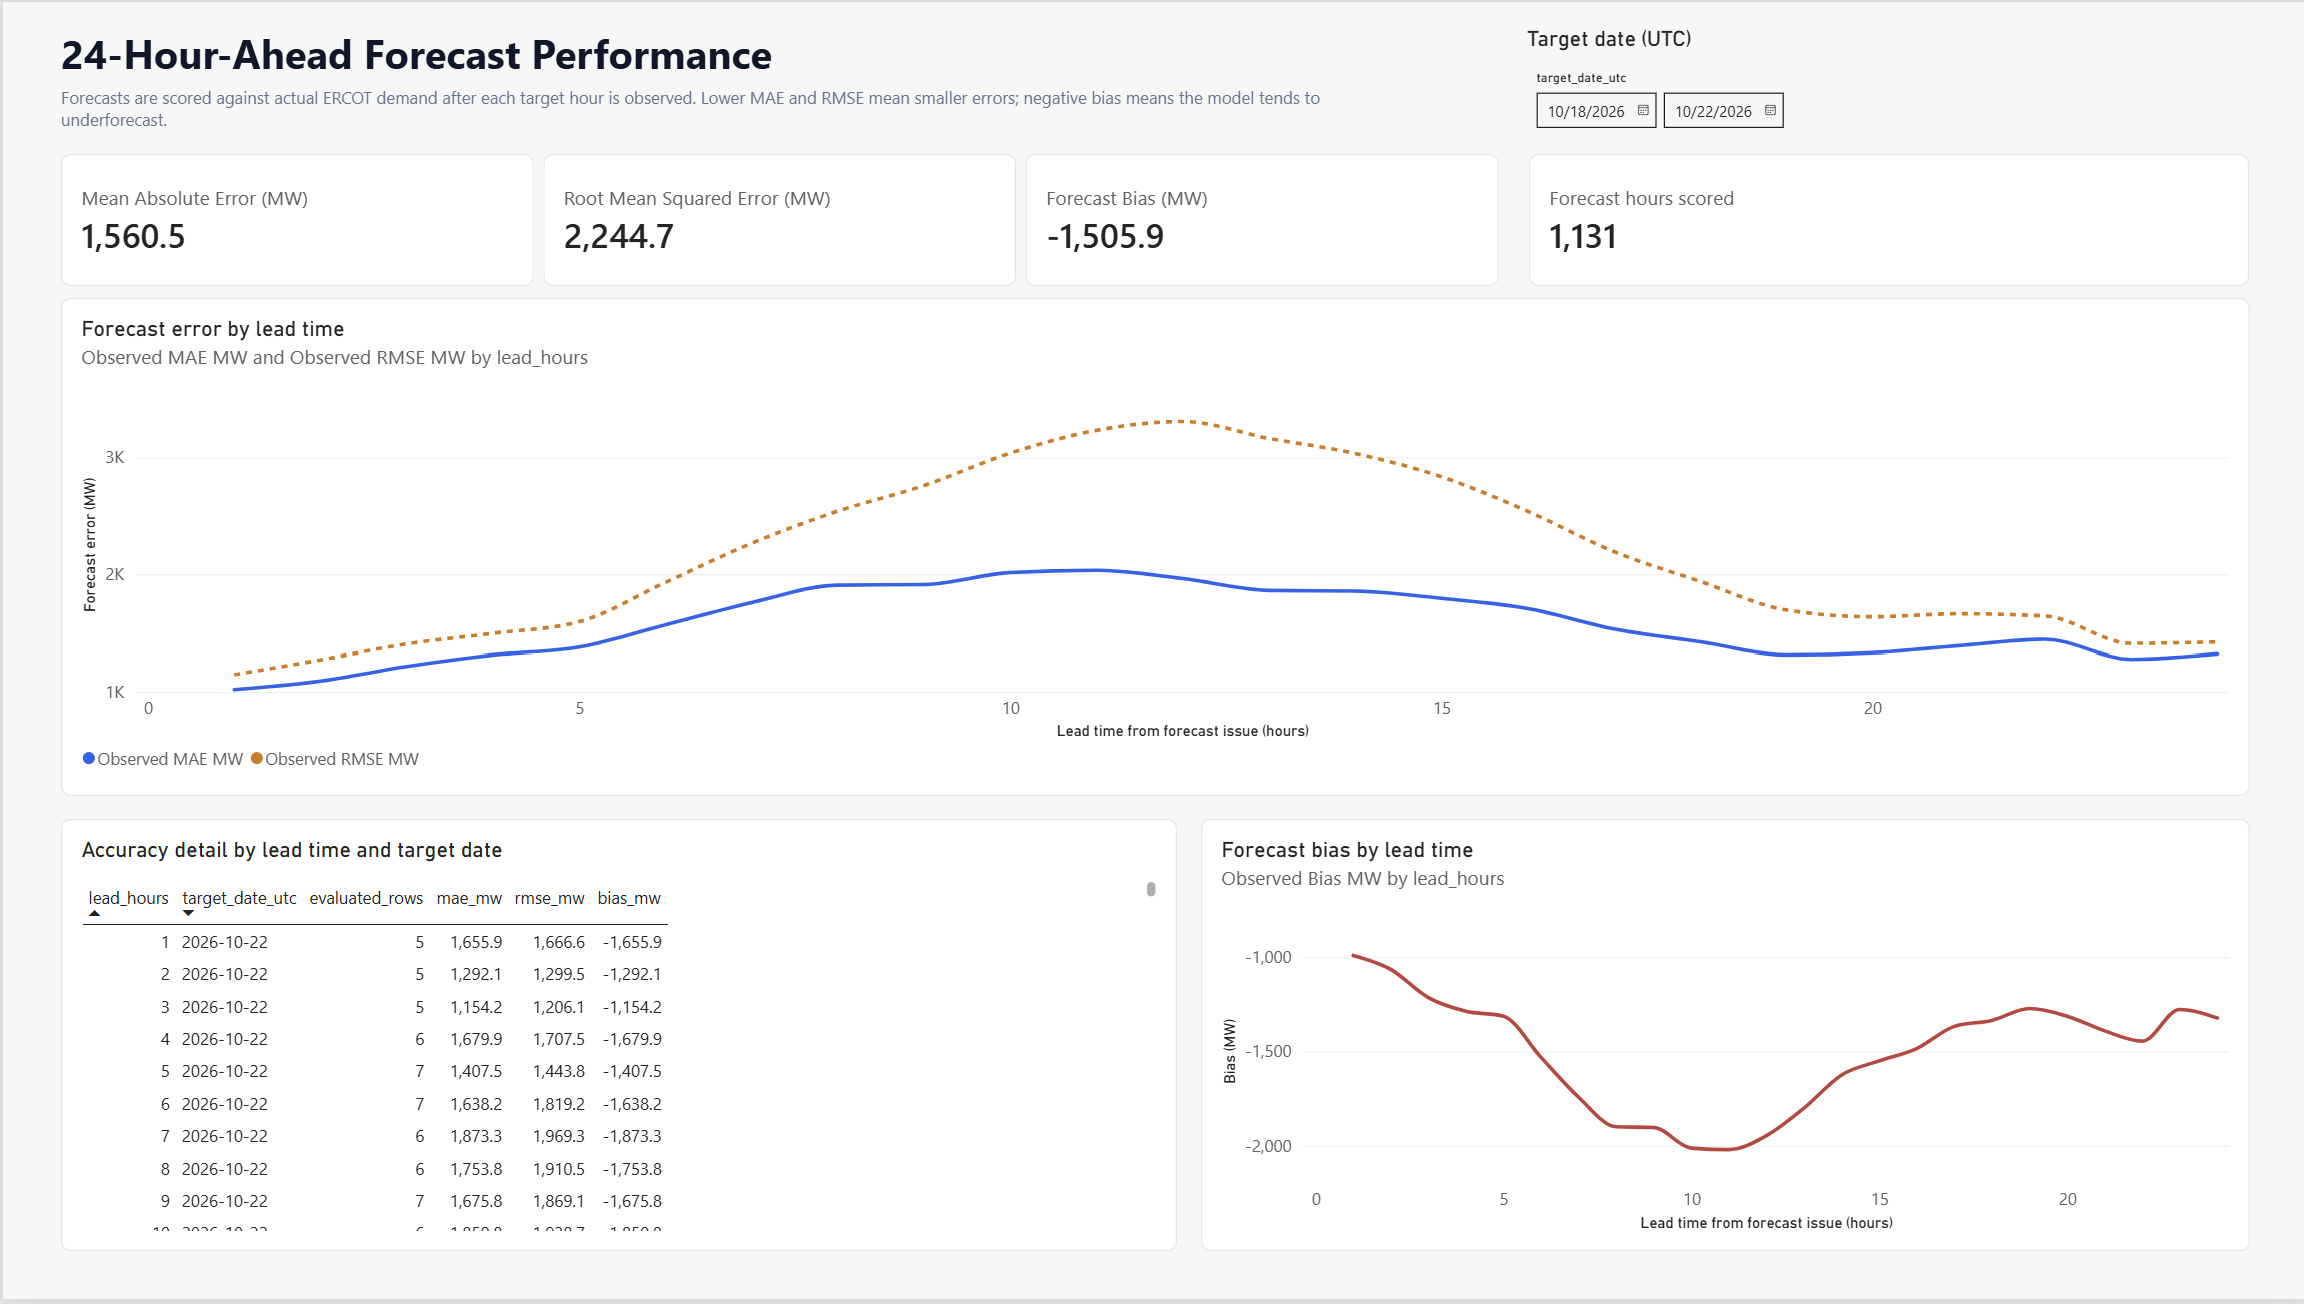
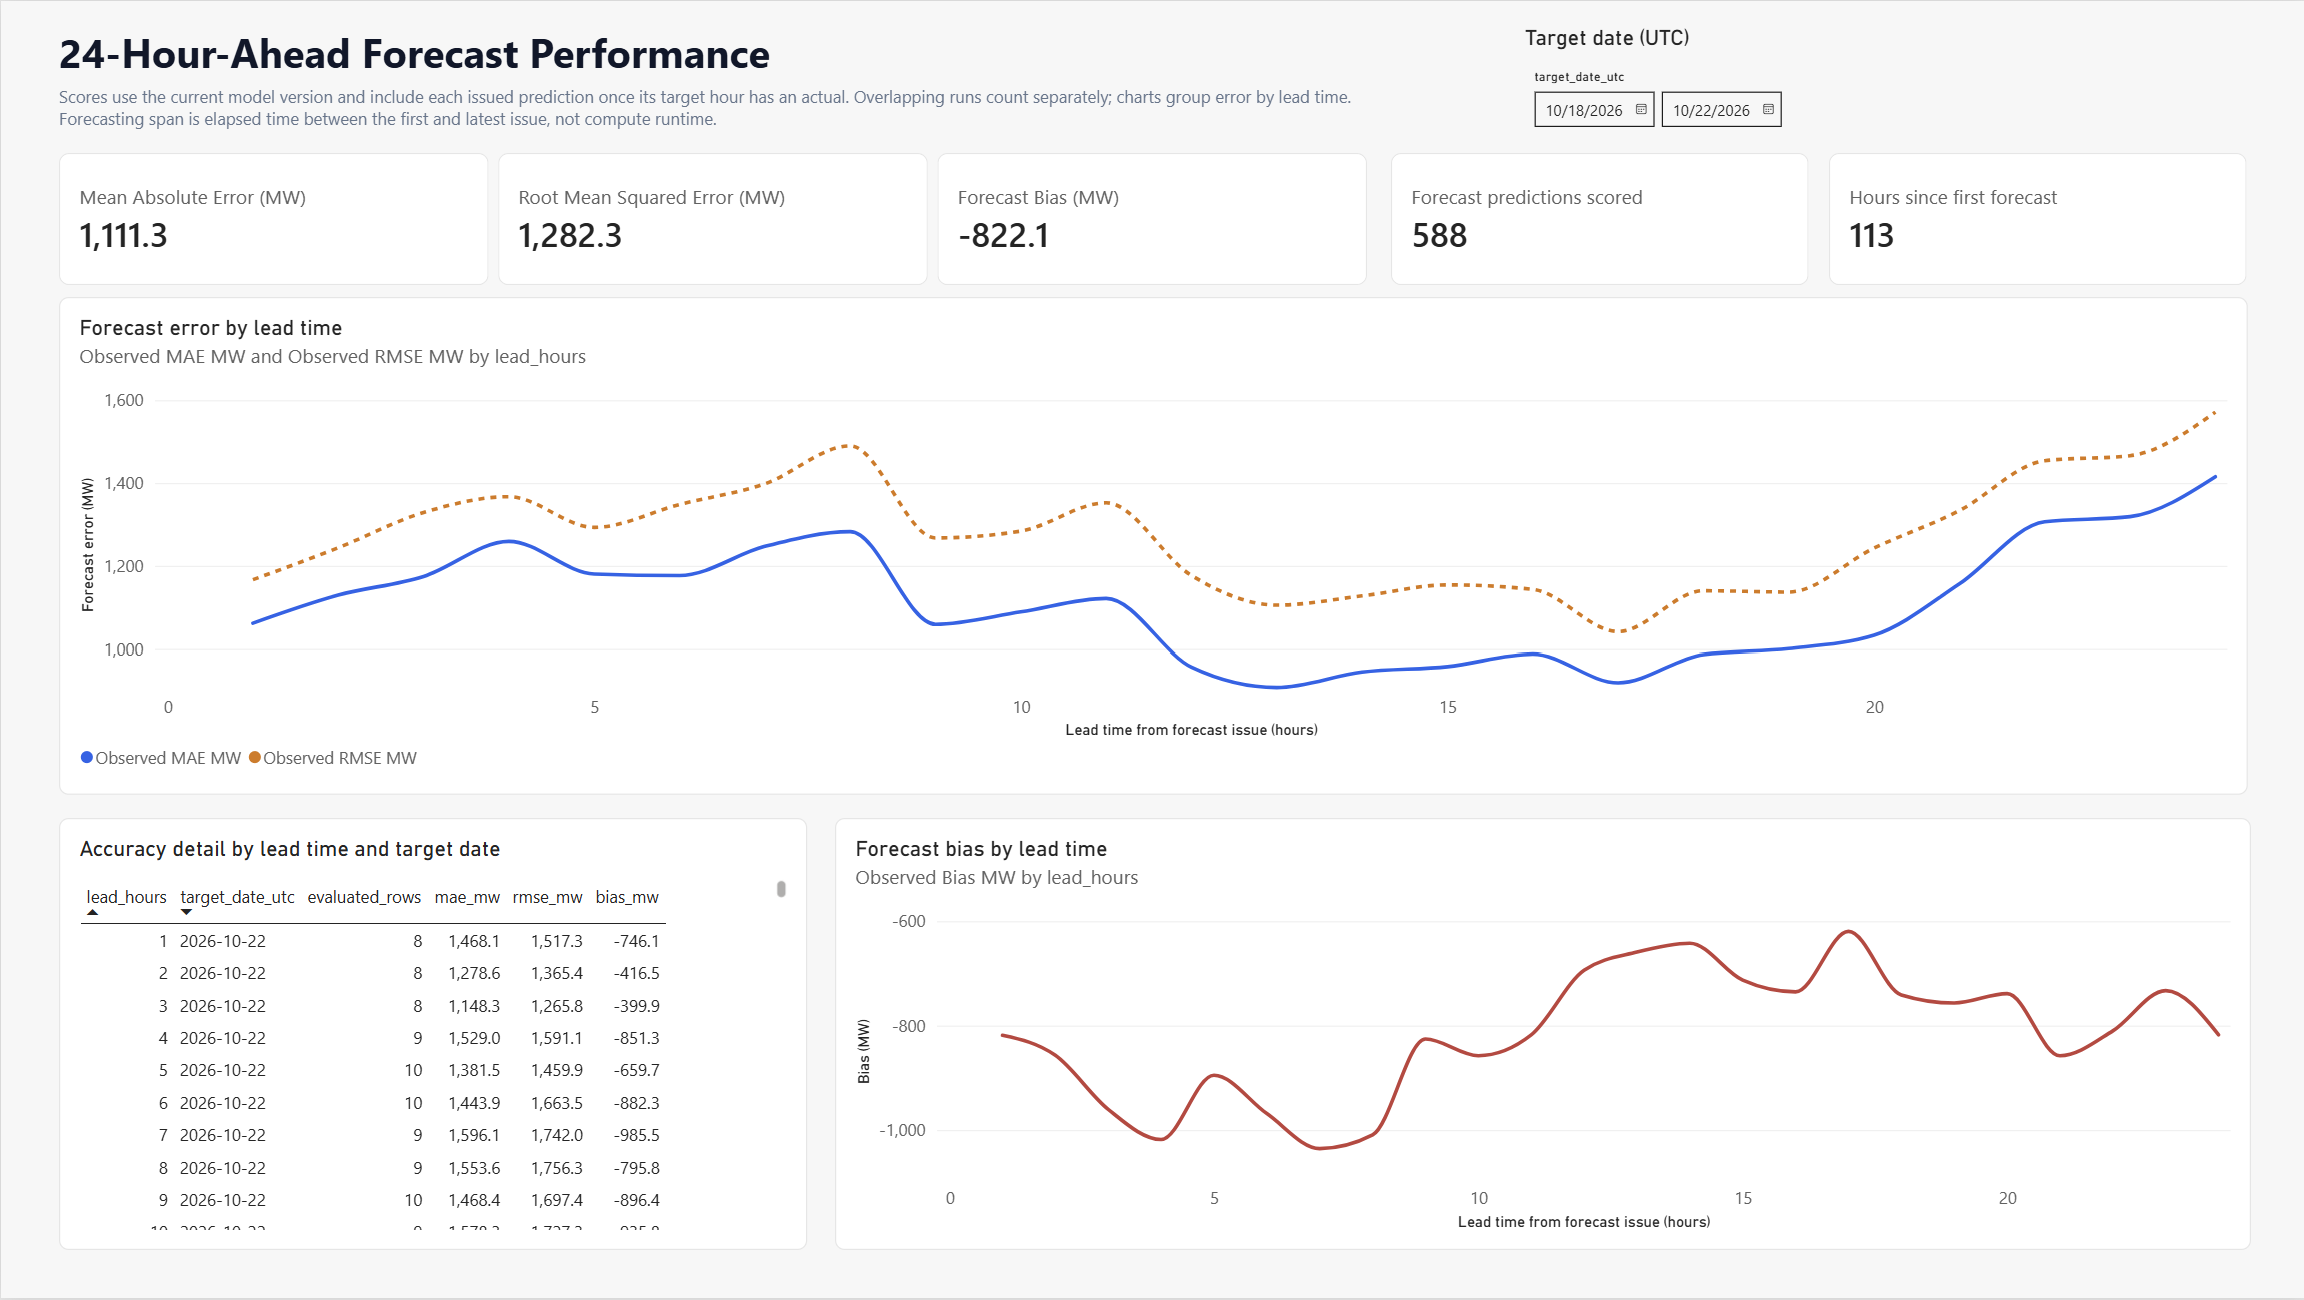
update README.md

diff --git a/README.md b/README.md
@@ -1,115 +1,115 @@
-# ERCOT Demand Forecasting and Operational Analytics
+# ERCOT Demand Forecasting & Operational Analytics Platform
 
-This project builds an hourly, system-wide ERCOT electricity-demand forecast and an analytics layer for understanding observed demand. It uses a Databricks lakehouse for ingestion and processing, a LightGBM model for forecasting, and Power BI for operational and historical analysis.
+An end-to-end, production-style platform for hourly system-wide ERCOT electricity-demand forecasting and operational analytics, built on a Databricks Medallion lakehouse (Bronze → Silver → Gold), a direct multi-horizon LightGBM forecasting model, and a Power BI semantic layer for operational decision support.
 
-The forecast is for ERCOT as a whole. The zone page reports observed zonal load; it does not claim to forecast demand by zone.
+The forecast targets system-wide ERCOT demand. The observed zonal page disaggregates historical load by ERCOT weather zone; it does not extend the forecasting model to zone-level predictions.
 
-## What the project does
+## What this platform does
 
-- Ingests EIA-930 actual system demand, weather forecasts, and observed ERCOT weather-zone demand.
-- Cleans and conforms source data, retaining UTC timestamps for joins and Central Time for Texas-facing reporting.
-- Produces a rolling 24-hour system-demand forecast every three hours, with issue-time weather features and historical demand context.
-- Evaluates issued forecasts against actual demand after the target hours become available, including error by forecast lead.
-- Uses chronological validation, a final holdout period, and a seasonal-naive reference during model selection.
-- Presents current forecasts, actual demand, weather patterns, observed zonal loads, and model reliability in Power BI.
+- Ingests EIA-930 actual system demand via a high-water-mark incremental pipeline with a configurable restatement buffer to handle late EIA revisions, alongside ECMWF weather forecasts and observed ERCOT weather-zone demand.
+- Conforms and standardizes source data across layers — UTC timestamps drive all joins, windowed aggregations, and model training; Central Time (America/Chicago) is applied only at the reporting boundary.
+- Publishes a rolling 24-hour system-demand forecast every three hours using point-in-time-safe weather features and lag-structured historical demand context, with strict forecast-origin boundaries to eliminate look-ahead leakage.
+- Scores every issued forecast against matured EIA actual demand, disaggregated by forecast lead and target period, tracking MAE, RMSE, and signed bias as actuals are revised and settled.
+- Selects models using chronological rolling windows with a strictly untouched final holdout period and a seasonal-naive daily baseline as a reference — not random row splitting.
+- Surfaces forecasts, observed demand history, population-weighted weather patterns, observed zonal loads, and rolling model reliability in a structured Power BI semantic model.
 
-EIA day-ahead forecasts are not used as a model input or comparison. EIA actual demand remains the source of observed outcomes and model labels. The EIA-930 documentation distinguishes actual demand from a balancing authority's submitted day-ahead forecast, and notes that demand data can be revised after initial publication. The project therefore scores forecasts against observed actuals as they mature and keeps their timestamps explicit.
+EIA day-ahead forecasts are excluded as a model input or benchmark. EIA-930 actual demand is the sole source of observed outcomes and training labels. Because EIA-930 explicitly states that demand data may be revised after initial publication, every forecast is scored retrospectively against settled actuals at that target timestamp, with the actual-data watermark surfaced in the report.
 
 ## Power BI report
 
-The report uses Central Time for Texas-facing timestamps. Forecast and observed values are distinct series: forecasts describe future demand, while actuals describe published outcomes.
+The report separates forecast series from observed actuals. All report-facing timestamps are rendered in Central Time (America/Chicago); all underlying data joins are resolved in UTC. Forecast values represent the model's issued prediction at a given origin; actuals represent the EIA-settled demand for the same target hour.
 
 ### Executive forecast
 
-Shows the next 24 hours of system demand, expected peak and timing, the latest observed value, and the time through which actuals are available.
+Presents the rolling 24-hour system demand forecast alongside the expected peak demand and its projected timing, the latest ingested actual, and the current EIA actuals watermark.
 
 ![Executive Forecast](images/powerbi/1_ExecutiveForecast.png)
 
 ### Historical demand
 
-Shows long-term demand levels, annual peaks, seasonal patterns, and hourly demand shape.
+Tracks long-term system demand levels, annual peak observations, multi-year seasonal decomposition, and intraday load shape distributions.
 
 ![Historical Demand](images/powerbi/2_Demand.png)
 
 ### Weather and demand patterns
 
-Explores the relationship between observed load and population-weighted weather, along with seasonal and hourly demand patterns.
+Explores the empirical relationship between observed system load and population-weighted ambient temperature, including seasonal load curves and the non-linear temperature-demand response across ERCOT's climate zones.
 
 ![Weather and Demand Patterns](images/powerbi/3_Weather.png)
 
 ### Observed regional zonal demand
 
-Shows observed ERCOT weather-zone load on a Texas map and in a zone summary. Selecting a zone filters zonal visuals; the system-wide demand trend remains system-wide.
+Disaggregates observed ERCOT weather-zone load across a Texas geographic map and a zone-level summary table. Selecting a zone cross-filters the zonal visuals; the system-wide demand trend is always rendered at the system level.
 
 ![Observed Regional Zonal Demand](images/powerbi/4_Observed.png)
 
 ### Forecast reliability
 
-Shows model error against matured actual demand by forecast lead and target period. A missing or pending score means there are not yet enough eligible forecast/actual pairs for that slice; it is not a zero-error result.
+Tracks model error against settled EIA actual demand by forecast lead hour and target period. A pending or missing score indicates insufficient eligible forecast/actual pairs for that lead-period slice — it is not a zero-error result.
 
 ![Forecast Reliability](images/powerbi/5_Reilability.png)
 
 ## Databricks workflows
 
-The workflows separate recurring forecast serving, slower supporting data updates, and model retraining.
+Three automated workflows separate forecast serving, supporting data refresh, and model retraining by cadence and compute sensitivity.
 
 ### Three-hour forecast and monitoring
 
-Refreshes issue-time weather and EIA actual demand, updates the conformed and Gold demand facts, checks model readiness, publishes the rolling 24-hour forecast, and refreshes forecast monitoring metrics.
+Incrementally refreshes issue-time weather vintages and EIA actual demand, applies Silver conformation and Gold Delta MERGE upserts, validates model readiness, publishes the rolling 24-hour forecast, and refreshes forecast monitoring metrics against newly matured actuals.
 
 ![Three-hour forecast and monitoring workflow](images/databricks/Job_Hour_3.png)
 
 ### Daily supporting-data refresh
 
-Refreshes supporting weather history and observed zonal demand, then updates the zonal summary used by Power BI.
+Refreshes historical weather and observed ERCOT weather-zone demand, then rebuilds the Gold zonal summary table consumed by the Power BI semantic model.
 
 ![Daily data refresh workflow](images/databricks/Job_Daily.png)
 
 ### Monthly model retraining
 
-Builds point-in-time training examples, trains a candidate model, evaluates it on chronological validation and holdout periods, and applies the configured promotion checks.
+Constructs point-in-time training examples with issue-aligned weather vintage selection, trains a LightGBM candidate across chronological rolling windows, scores it on a held-out final period, and applies the configured win-rate and peak-hour promotion gate before registering the model in MLflow.
 
 ![Monthly model retraining workflow](images/databricks/ERCOT_M.png)
 
-## Data flow and design
+## Data flow and architecture
 
 ```text
 EIA-930 actual demand ─┐
-Weather forecasts ─────┼──> Bronze: source-aligned records
+Weather forecasts ─────┼──> Bronze: source-aligned raw records (high-water-mark, restatement buffer)
 ERCOT zone actuals ────┘                 │
                                          v
-                              Silver: cleaned and conformed
+                              Silver: conformed, standardized, quality-gated
                                          │
                                          v
-                              Gold: analytics and serving
-                               ├─ observed demand facts
-                               ├─ point-in-time training data
-                               ├─ hourly forecast history/latest
-                               ├─ forecast monitoring metrics
-                               └─ observed zonal summaries
+                              Gold: analytics and serving layer
+                               ├─ observed demand facts (idempotent Delta MERGE)
+                               ├─ point-in-time training examples
+                               ├─ rolling 24-hour forecast history and latest
+                               ├─ forecast monitoring metrics (MAE, RMSE, Bias by lead)
+                               └─ observed zonal demand summaries
                                          │
                                          v
-                                     Power BI
+                                     Power BI semantic model
 ```
 
-Spark and Delta Lake handle distributed transformations and table writes. Bronze preserves source-aligned records; Silver applies standardization and data-quality rules; Gold contains serving and analytical products. Forecast features are limited to information available at the forecast origin to reduce look-ahead leakage. UTC timestamps define storage and matching; Central Time supports local calendar features and report labels.
+PySpark and Delta Lake handle distributed transformations and all table writes. Bronze preserves source-aligned records with raw API envelope archival for lineage and replay. Silver applies standardization, null-safe data-quality rules, and availability-state columns (`AVAILABLE` / `NOT_YET_PUBLISHED` / `MISSING_HISTORICAL`). Gold contains analytics-ready serving and modeling products. All forecast features are bounded to information available at the forecast origin timestamp to prevent look-ahead leakage. UTC defines storage, joins, and model training; Central Time is applied only at the reporting boundary.
 
 ## Forecast evaluation
 
-For each eligible forecast and target hour, the project compares predicted demand with the EIA-reported actual demand for that same target. MAE describes typical absolute error, RMSE gives larger misses more weight, and signed bias indicates average over- or under-forecast. Scores should be read with the number of evaluated rows, the forecast lead, the model version, and the actual-data watermark. EIA actuals may be revised after initial publication, so evaluation is retrospective and can change as corrected actuals arrive.
+For each eligible (forecast origin, target hour) pair, the project compares the issued predicted demand against the EIA-settled actual demand at that same target timestamp. MAE describes typical absolute error magnitude, RMSE penalizes larger misses more heavily, and signed bias indicates systematic over- or under-forecasting direction. Every score is reported alongside its evaluated row count, forecast lead, model version, and actual-data watermark, because EIA actuals may be revised after initial publication.
 
-Model selection uses chronological rolling windows and a held-out final period rather than a random row split. A seasonal-naive forecast is used as a reference during training and promotion analysis. This is not a claim that the model beats an external EIA forecast; that comparison was removed because the available EIA-930 forecast is not a verified same-issue-time, same-lead benchmark for this project's forecast.
+Model selection uses strict chronological rolling windows with an untouched final holdout period — never a random row split, which would contaminate temporal ordering and introduce look-ahead bias. A seasonal-naive daily baseline is used as a reference signal during candidate evaluation and automated promotion gating. This is not a claim that the model beats any external published EIA forecast; that benchmark comparison was excluded because the archived EIA-930 day-ahead values cannot be verified as same-issue-time, same-lead observations for this project's forecast horizon.
 
-## Technology
+## Technology stack
 
-**Python, SQL, PySpark, Databricks, Spark, Delta Lake, LightGBM, MLflow, Power BI, DAX**
+**Python · SQL · PySpark · Databricks · Spark · Delta Lake · LightGBM · MLflow · Power BI · DAX · Pandas · NumPy · SciPy · Matplotlib**
 
 ## Local checks
 
-Run the local Python checks from the repository root:
+Run the deterministic local test suite from the repository root:
 
 ```powershell
 python -m pytest -q
 ```
 
-These checks cover deterministic local code. They do not execute Databricks workflows, validate live Unity Catalog tables, measure cloud compute, or refresh the Power BI semantic model.
+These checks validate deterministic local logic including ingestion contracts, schema-safe MERGE guards, training data contracts, and feature generation. They do not execute Databricks workflows, validate live Unity Catalog tables, measure cloud compute costs, or refresh the Power BI semantic model.
